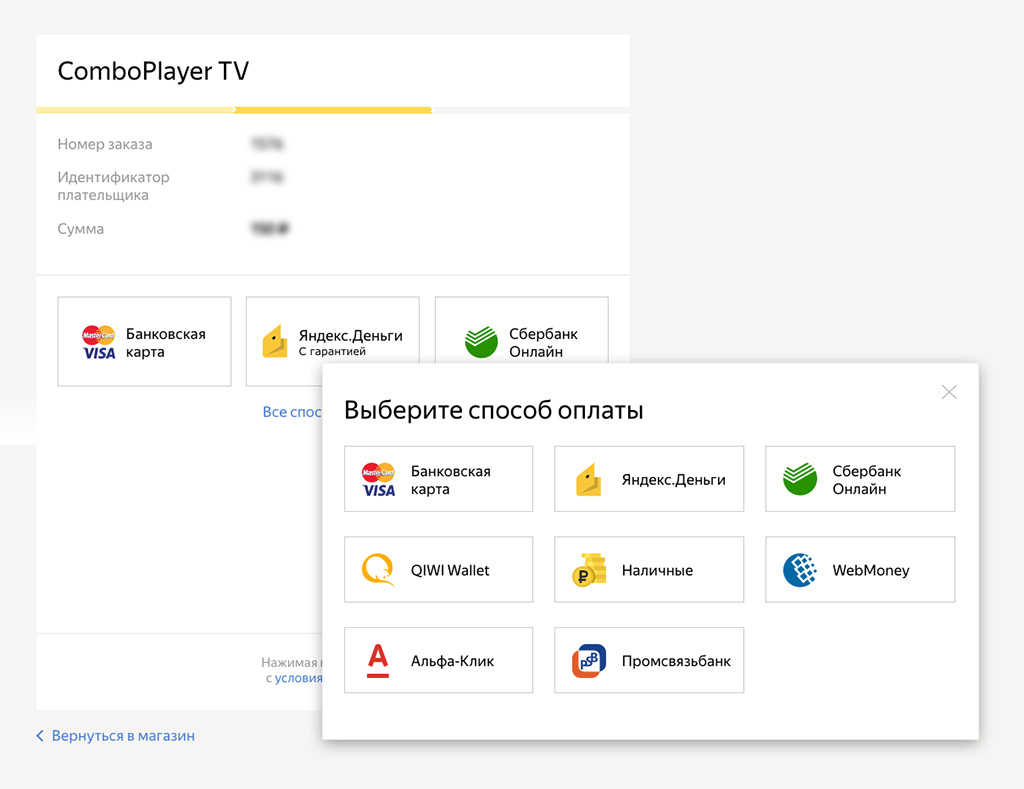
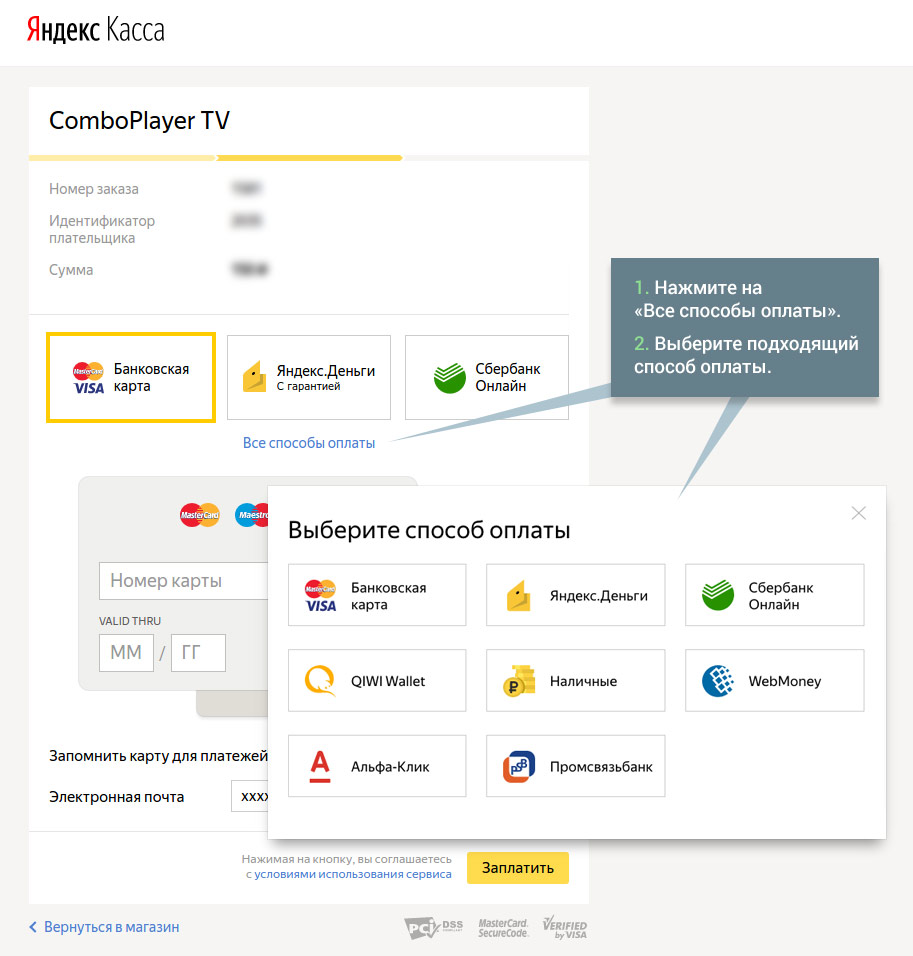
refs #14143

diff --git a/howtopay.html b/howtopay.html
@@ -57,26 +57,27 @@
 
         <main class="content article-page">
             <div class="container-fluid">
-                <h1>Как выбрать способ оплаты?</h1>
+                <h1>Способы оплаты платных каналов</h1>
                 <div class="clearfix">
-                    <p>Нажав кнопку <strong>"Перейти к оплате"</strong> вы перейдете на страницу <strong>"Яндекс.Кассы".</strong></p>
+                  
+                    <p>Для приобретения платной подписки в ComboPlayer доступны различные способы оплаты, включая платежи через пластиковые карты, личные кабинеты банков и электронные деньги.</p>
                     
-                    <p><img src="images/hwtpay04.jpg" alt="">&nbsp;</p>
+                    <p>После выбора тарифа платных каналов нажмите кнопку <strong>&laquo;Перейти к оплате&raquo;</strong>. Вы попадете на страницу платежного сервиса <strong>Яндекс.Касса</strong> (ООО НКО &laquo;Яндекс.Деньги&raquo;), где в безопасном режиме (SSL), будет произведена оплата.</p>
                     
-                    <p>Все возможные способы оплаты вы можете выбрать, кликнув по соответствующей ссылке.</p>
+                    <p>На странице Яндекс.Кассы нажмите на ссылку <strong>&laquo;Все способы оплаты&raquo;</strong>.</p>
                     
                     <p><img src="images/hwtpay01.jpg" alt="">&nbsp;</p>
                     
-                    <p>Во всплывающем окне выберите доступный способ.</p>
+                    Во всплывающем окне выберите подходящий вам способ платежа:
                     
-                    <p><img src="images/hwtpay02-b.jpg" alt="">&nbsp;</p>
+                    <p><img src="images/hwtpay02.jpg" alt="">&nbsp;</p>
                     
-                    <p>Укажите необходимые данные и нажмите кнопку <strong>"Заплатить"</strong>.</p>
+                    После выбора нужного способа платежа нажмите кнопку <strong>&laquo;Заплатить&raquo;</strong> и произведите оплату.
                     
                     <p><img src="images/hwtpay03.jpg" alt="">&nbsp;</p>
                     
                 </div>
-                
+                                
             </div>
         </main>
        

diff --git a/styles/css/styles.less b/styles/css/styles.less
@@ -1015,7 +1015,7 @@ textarea.form-control {
                     -webkit-border-top-right-radius: 3px;
                     border-top-right-radius: 3px;
                     a {
-                        padding: 10px 15px;
+                        padding: 10px 15px !important;
                         text-align: center;
                         min-width: 100px;
                         color: #fff;

diff --git a/styles/css/styles.css b/styles/css/styles.css
@@ -7811,7 +7811,7 @@ textarea.form-control {
   border-top-right-radius: 3px;
 }
 .content-tv-head .tv-table-week ul li.active a {
-  padding: 10px 15px;
+  padding: 10px 15px !important;
   text-align: center;
   min-width: 100px;
   color: #fff;
